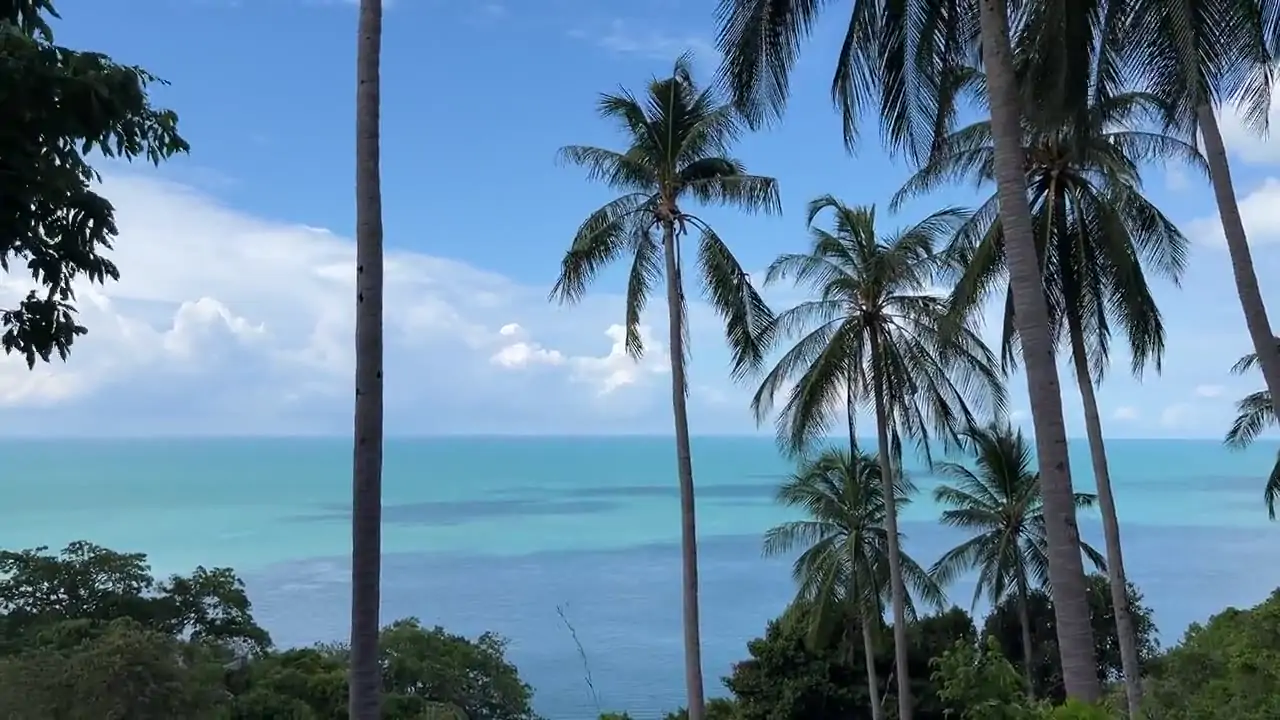
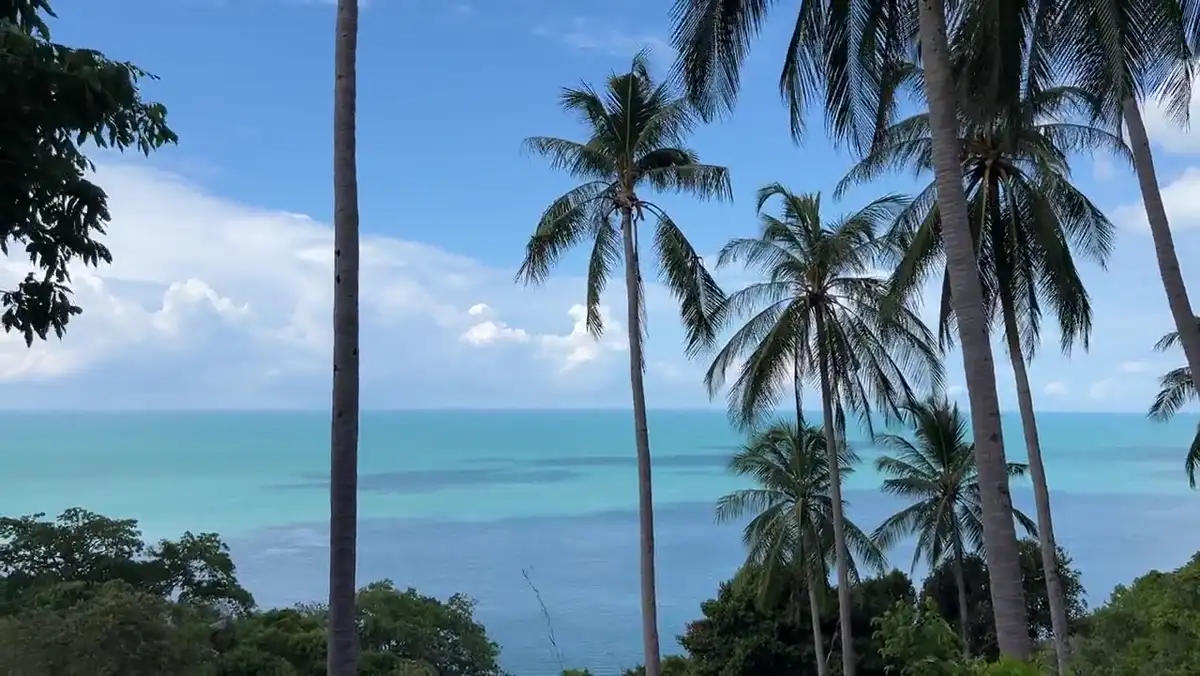
Perf: compress activities/hero-poster/experience further; remove carousel forced reflow

Changed region(s): [[0.9558, 0.0932, 0.9867, 0.1243], [0.5858, 0.4349, 0.6167, 0.466], [0.555, 0.0932, 0.5858, 0.1243]]

diff --git a/index.html b/index.html
@@ -587,10 +587,10 @@
     function rvScroll(dir) {
       var t = document.getElementById('rvTrack'); if (!t) return;
       var c = t.querySelector('.rv'); var step = c ? c.getBoundingClientRect().width + 28 : 320;
-      var half = t.scrollWidth / 2;
-      var x = t.scrollLeft + dir * step;
+      var half = t._half || (t.scrollWidth / 2);
+      var x = (t._pos != null ? t._pos : t.scrollLeft) + dir * step;
       if (x < 0) x += half; if (x >= half) x -= half;
-      t.scrollLeft = x;
+      t._pos = x; t.scrollLeft = x;
     }
     window.addEventListener('scroll', function () {
       var past = window.scrollY > window.innerHeight - 80;
@@ -620,18 +620,21 @@
       var t = document.getElementById('rvTrack');
       if (!t) return;
       t.innerHTML += t.innerHTML; // duplicate cards for a seamless loop
-      var paused = false;
-      ['mouseenter','touchstart'].forEach(function(ev){ t.addEventListener(ev, function(){ paused = true; }, {passive:true}); });
-      ['mouseleave','touchend'].forEach(function(ev){ t.addEventListener(ev, function(){ paused = false; }, {passive:true}); });
-      var speed = 0.7, half = 0; // px per frame — gentle, readable glide
-      function measure() { half = t.scrollWidth / 2; }
+      var paused = false, speed = 0.7;
+      t._pos = 0; t._half = 0;
+      function measure() { t._half = t.scrollWidth / 2; }
       measure();
       window.addEventListener('resize', measure);
       window.addEventListener('load', measure);
+      t.addEventListener('mouseenter', function(){ paused = true; }, {passive:true});
+      t.addEventListener('mouseleave', function(){ paused = false; }, {passive:true});
+      t.addEventListener('touchstart', function(){ paused = true; }, {passive:true});
+      t.addEventListener('touchend', function(){ t._pos = t.scrollLeft; paused = false; }, {passive:true});
       function tick() {
-        if (!paused && half) {
-          t.scrollLeft += speed;
-          if (t.scrollLeft >= half) t.scrollLeft -= half;
+        if (!paused && t._half) {
+          t._pos += speed;
+          if (t._pos >= t._half) t._pos -= t._half;
+          t.scrollLeft = t._pos; // write only — no per-frame layout read
         }
         requestAnimationFrame(tick);
       }